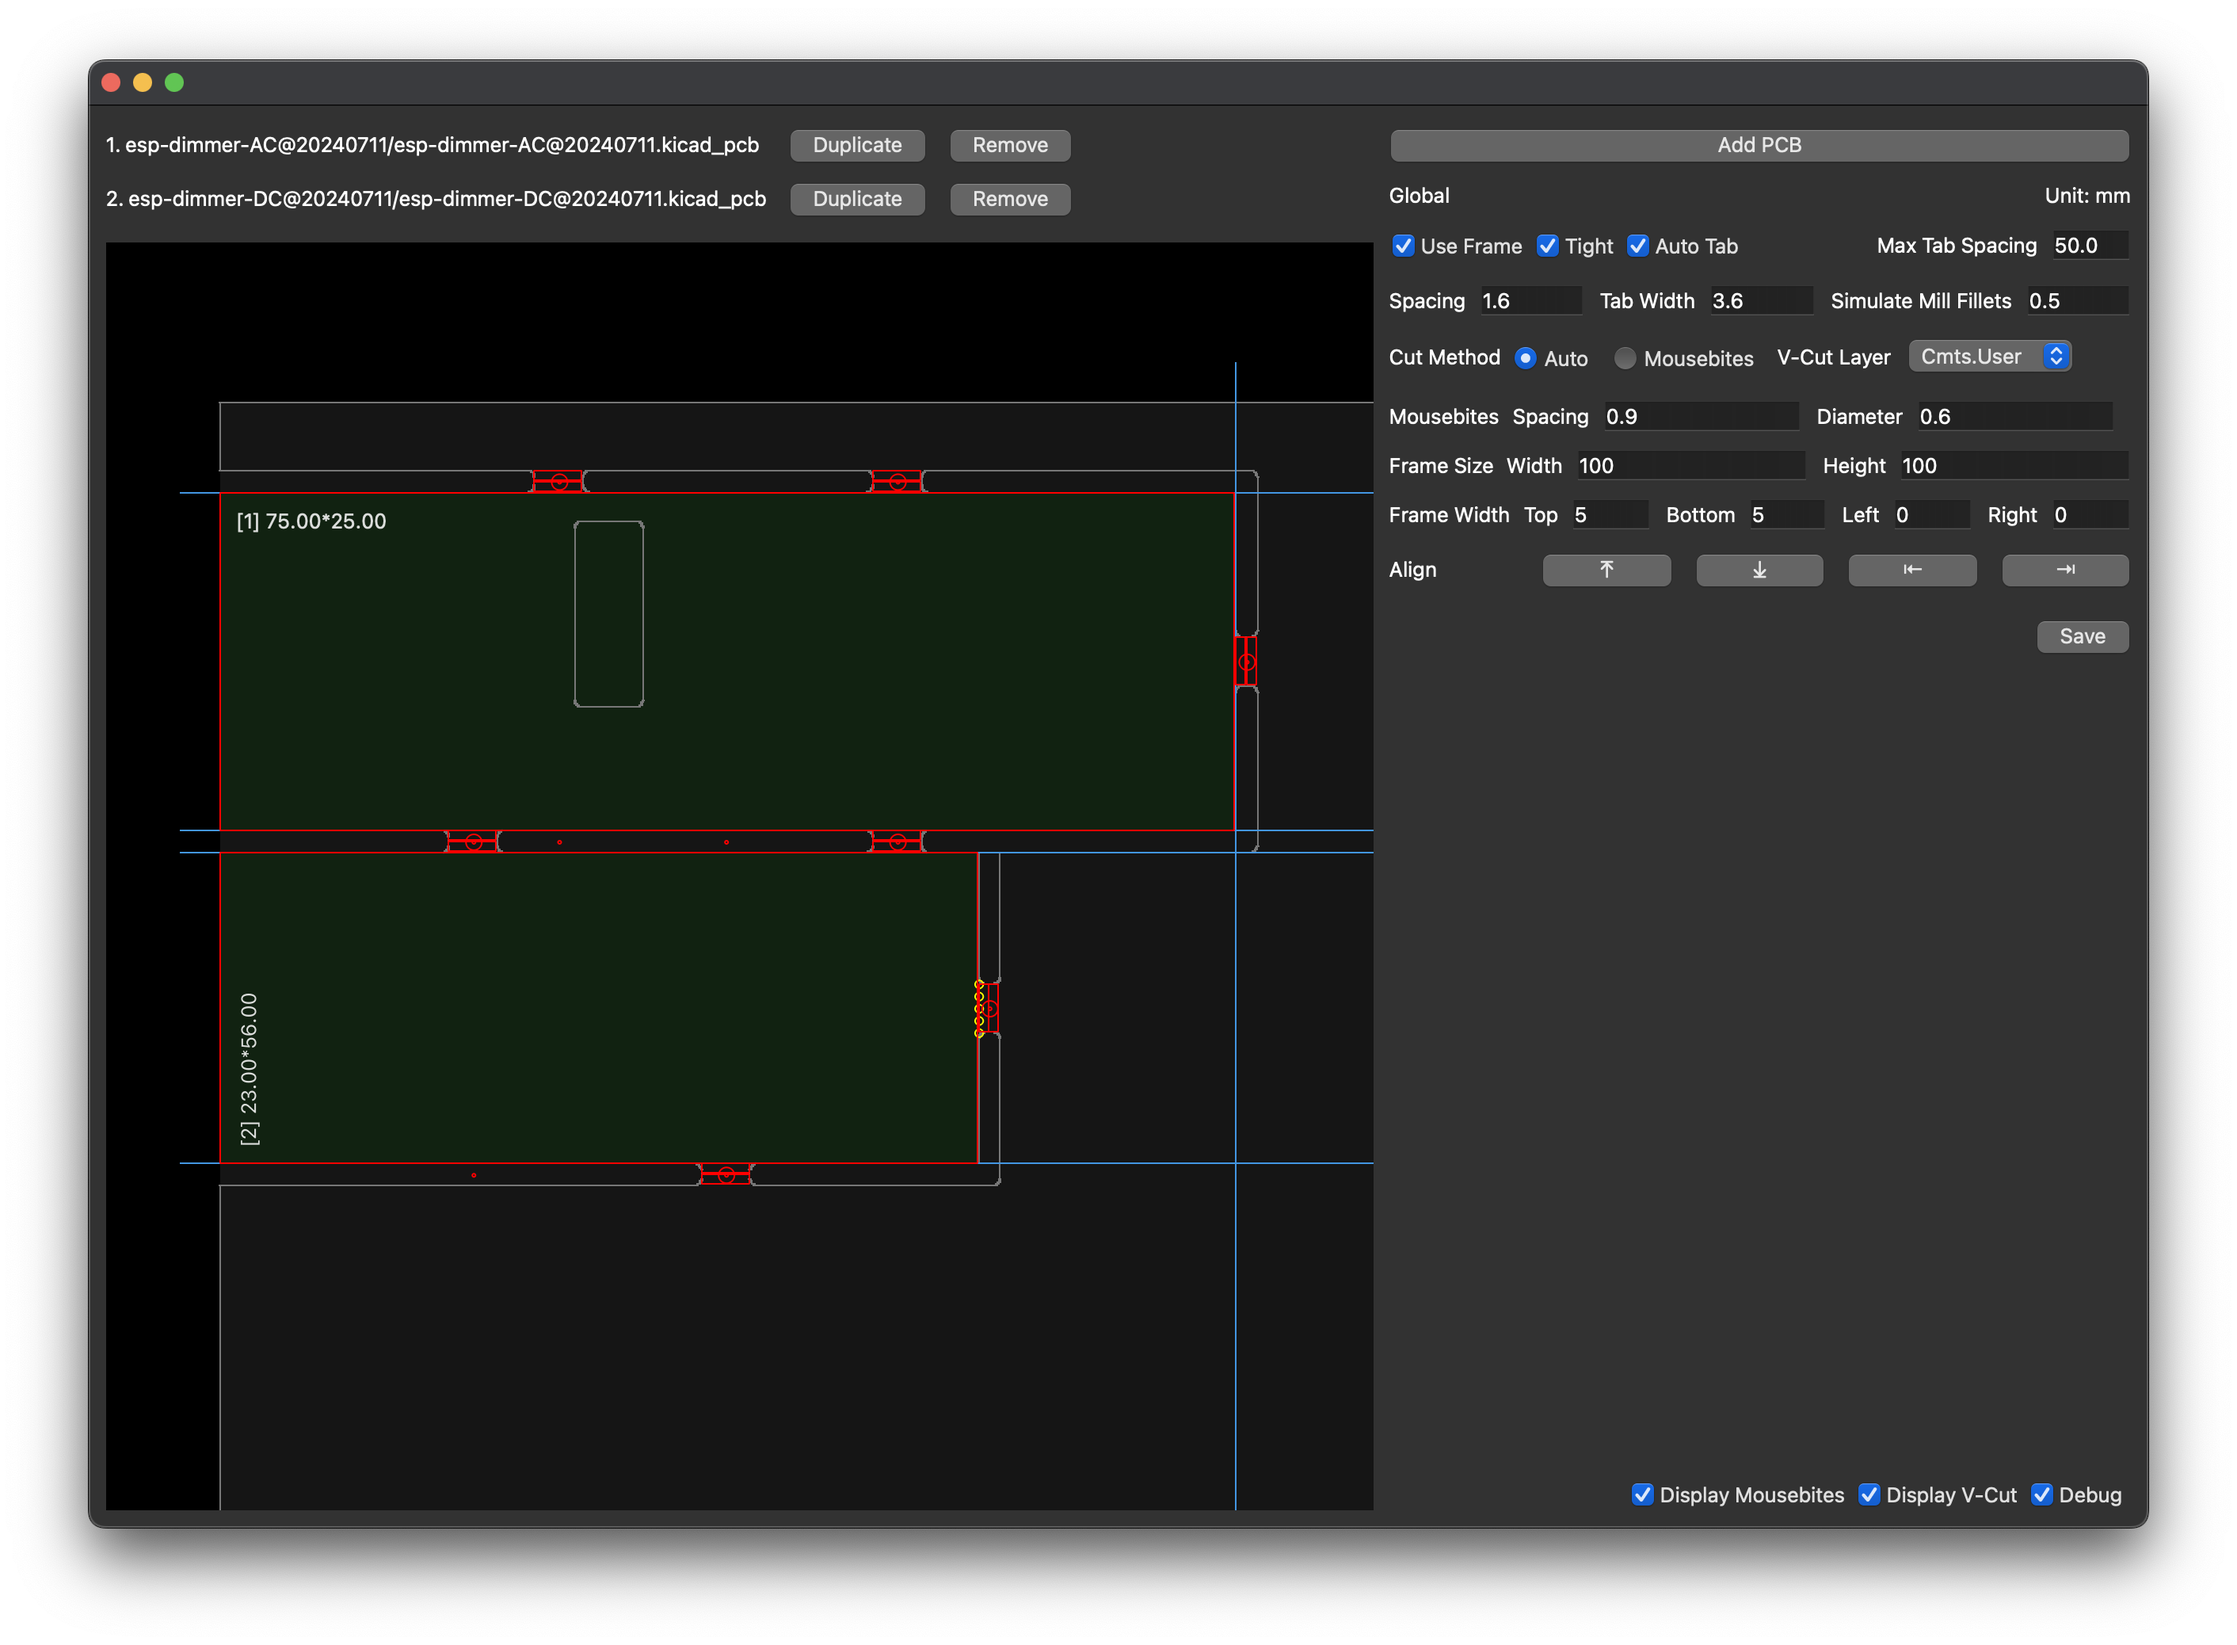
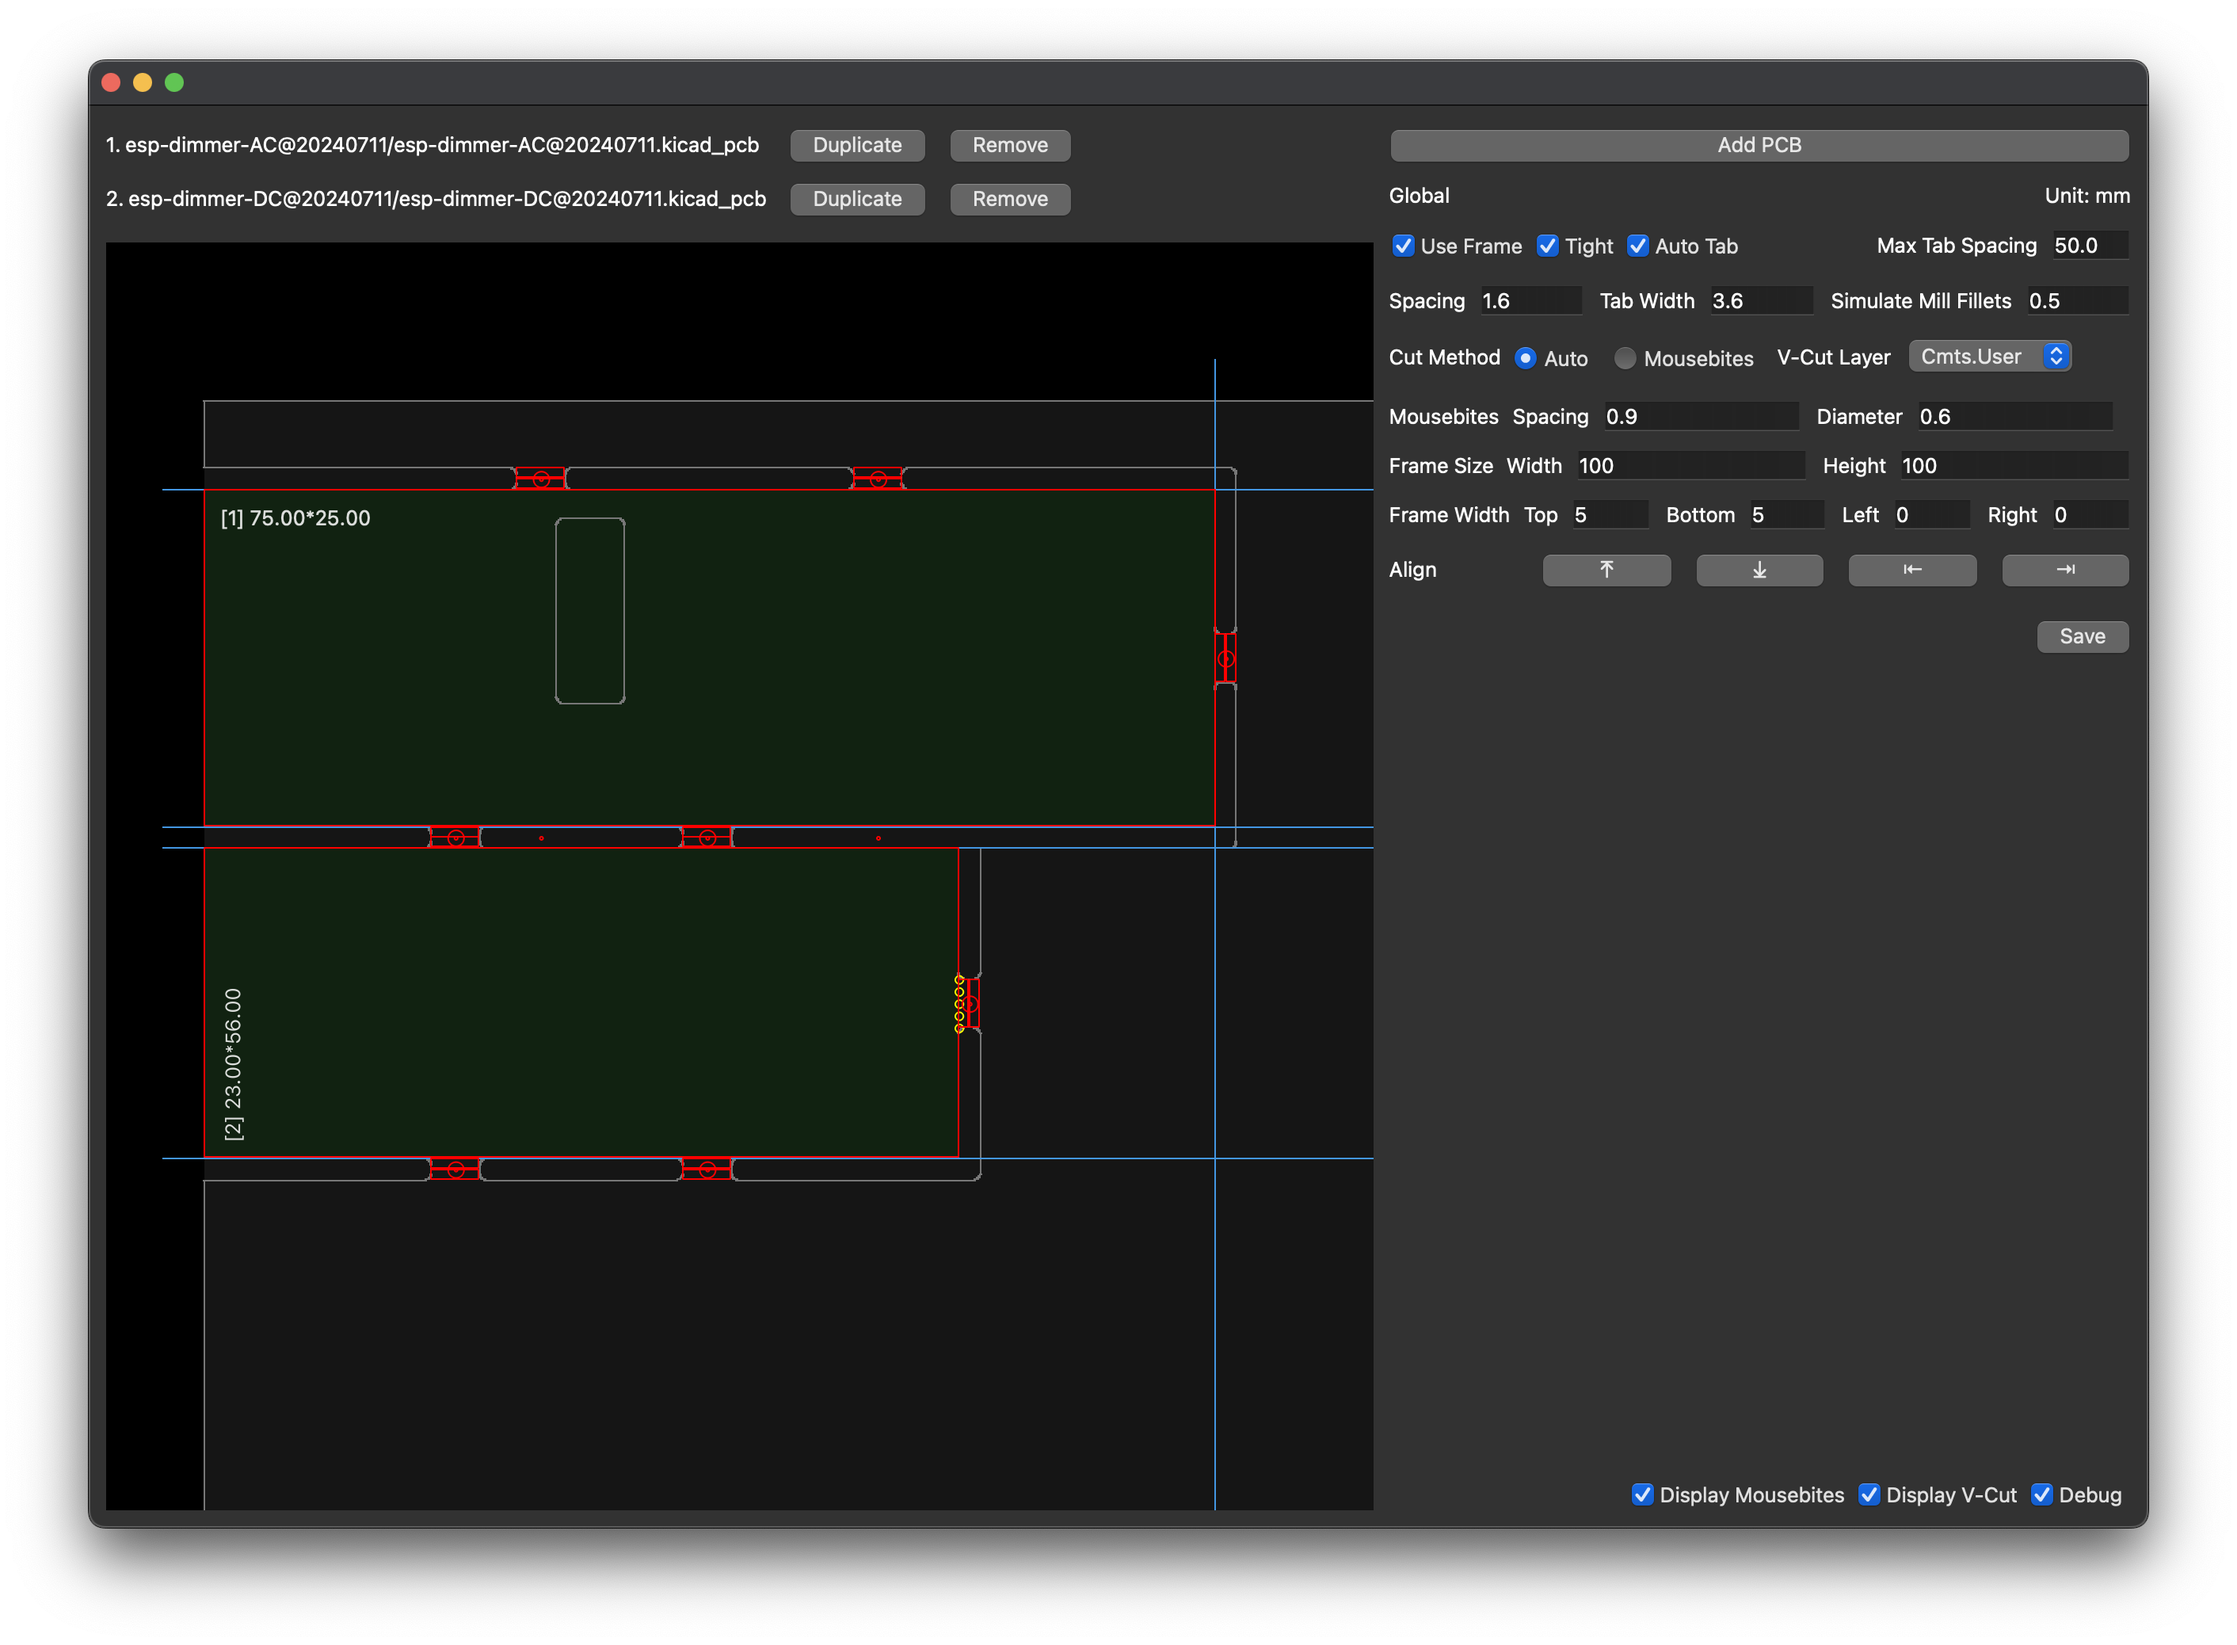
update auto tab selection

diff --git a/kikit-ui.py b/kikit-ui.py
@@ -540,9 +540,9 @@ class UI(Application):
                     (t[0] == p[0]
                     and
                     (
-                        abs(t[1]-p[1]) < max_tab_spacing*self.unit/2)
+                        abs(t[1]-p[1]) < max_tab_spacing*self.unit/3)
                         or
-                        (t[1] == p[1] and abs(t[0]-p[0]) < max_tab_spacing*self.unit/2)
+                        (t[1] == p[1] and abs(t[0]-p[0]) < max_tab_spacing*self.unit/3)
                     )
                 ]) > 0:
                 continue

diff --git a/README.md b/README.md
@@ -19,7 +19,7 @@ Tested with KiCad 7.0.10 and KiKit 1.5.1
 ![3D Output](screenshots/loose_frame_autotab_mousebites_output_3d.png)
 
 # Auto Tab
-Tab position candidates is determined by PCB Edge / `Max Tab Spacing`, prioritized by divided edge length (smaller first), and skipped if there is an nearby cadidate with higher priority.
+Tab position candidates is determined by PCB Edge / `max_tab_spacing`, prioritized by divided edge length (smaller first), and skipped if there is an nearby (distance < `max_tab_spacing/3`) cadidate with higher priority.
 
 In the below image, small red dots are tab position candidates, bigger red circle are selected candidates, the two rectangles are two half-bridge tabs.
 ![Auto Tab](screenshots/auto_tab_selection.png)
